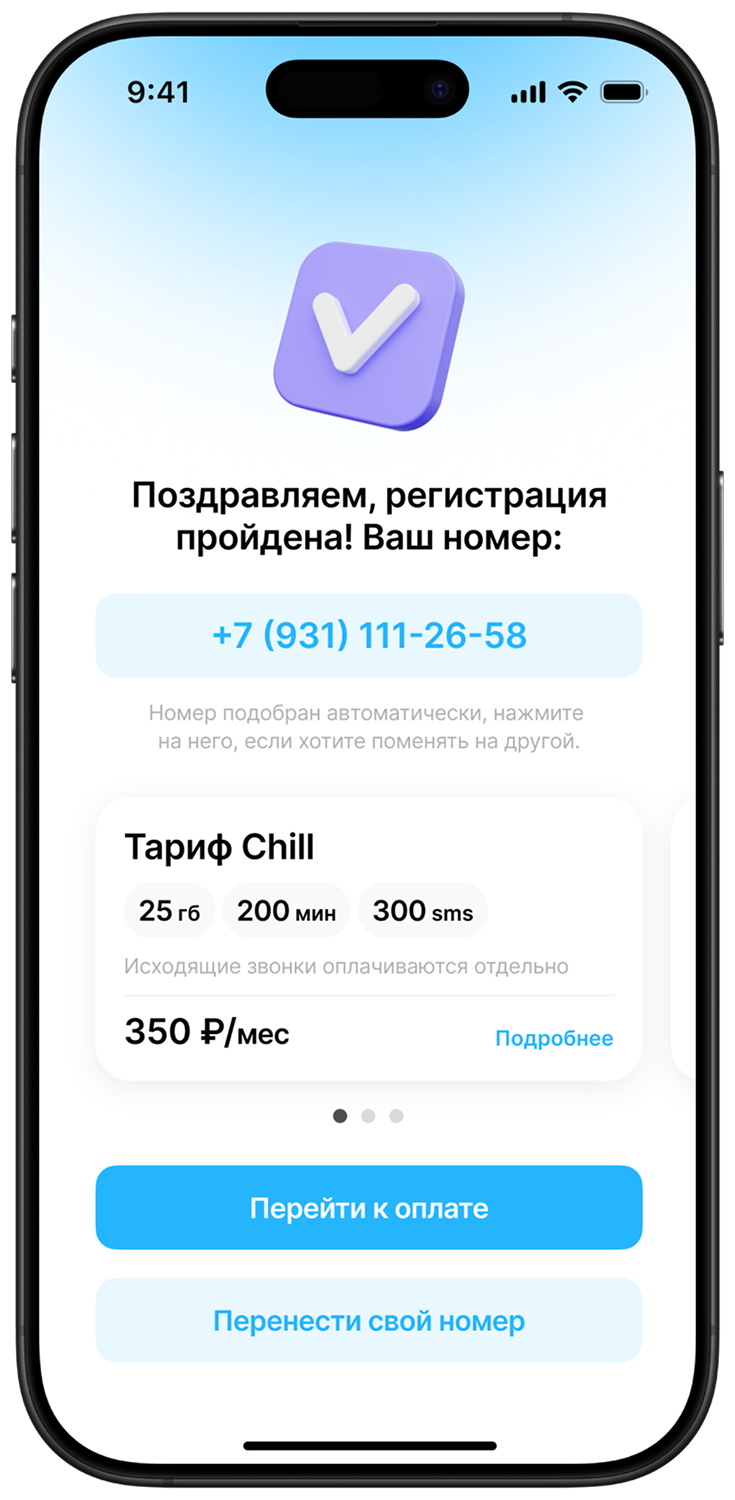
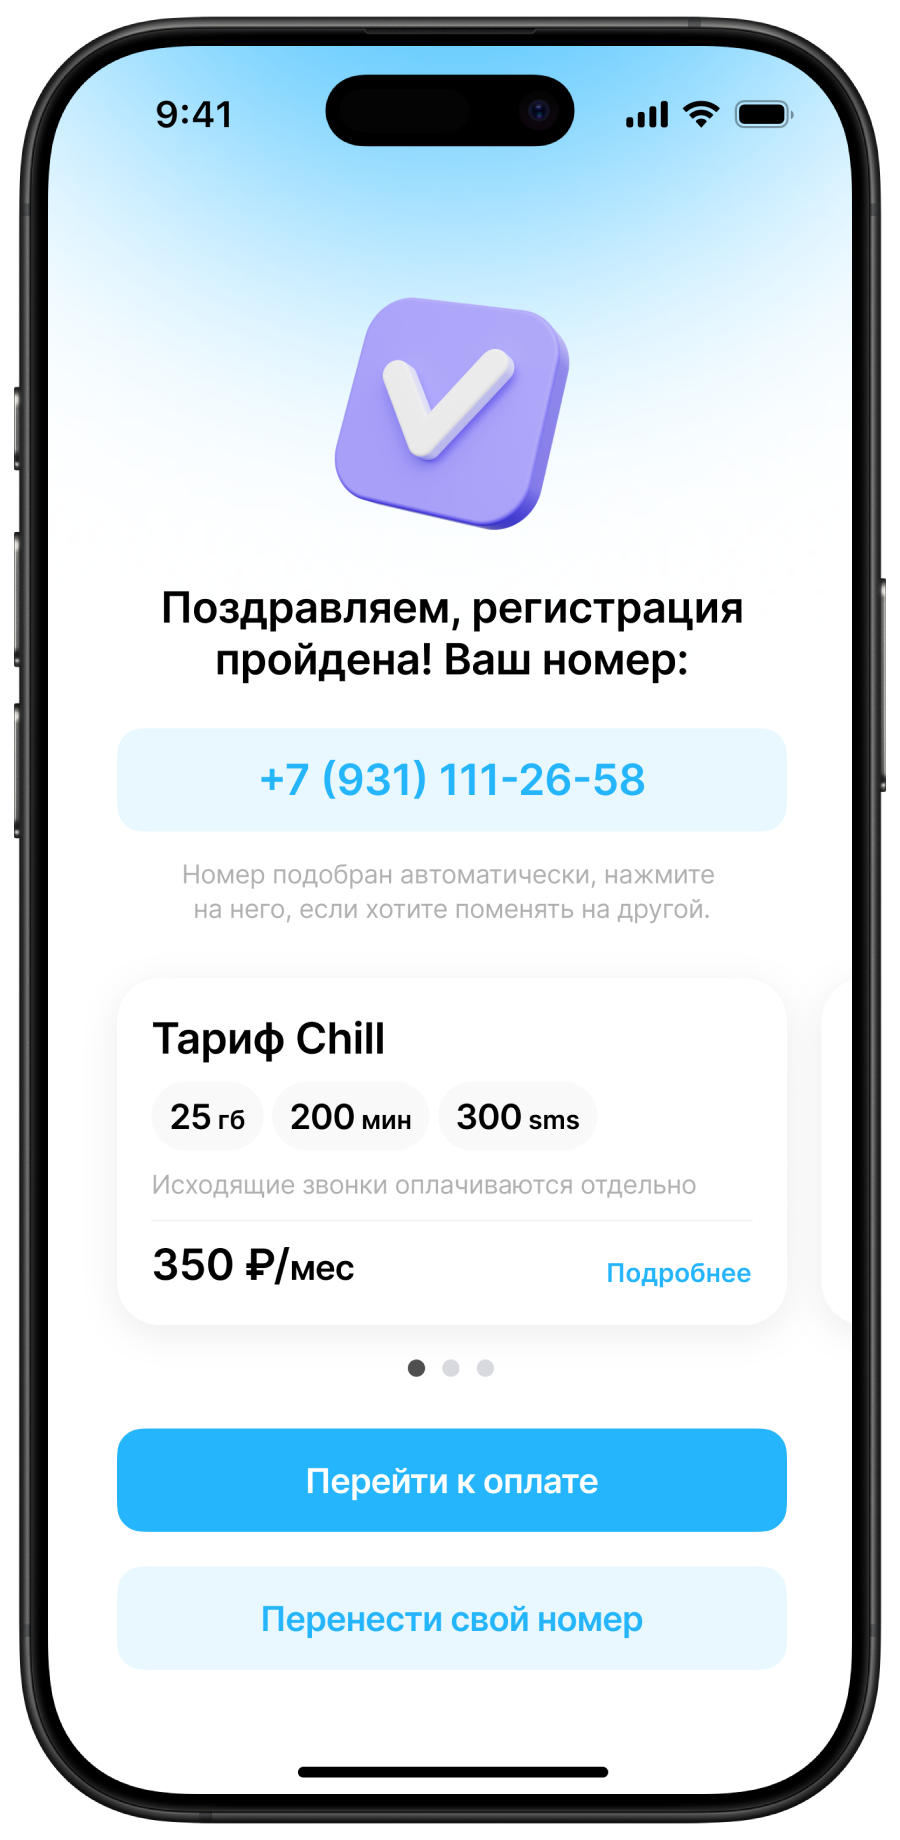
Update MCN case image frames

diff --git a/src/components/case-study-page.tsx b/src/components/case-study-page.tsx
@@ -7,22 +7,22 @@ import { useEffect, useRef, useState } from "react";
 
 const assets = {
   heart: "/figma/heart.svg",
-  phone1: "/figma/Main/phone%201.png?v=20260621",
-  phone2: "/figma/Main/phone%202.png?v=20260621",
-  phone3: "/figma/Main/phone%203.png?v=20260621",
+  phone1: "/figma/Main/phone%201.png?v=20260621b",
+  phone2: "/figma/Main/phone%202.png?v=20260621b",
+  phone3: "/figma/Main/phone%203.png?v=20260621b",
   arrowForward: "/figma/Main/arrow_forward.svg",
-  chartSmall: "/figma/case-chart-small.png",
-  chartBig: "/figma/case-chart-big.png",
-  discoveryActivation: "/figma/case-discovery-activation.png",
-  discoveryCost: "/figma/case-discovery-cost.png",
-  discoveryFeedback1: "/figma/case-discovery-feedback-1.png",
-  discoveryFeedback2: "/figma/case-discovery-feedback-2.png",
-  competitorWhatsapp: "/figma/case-competitor-whatsapp.png",
-  competitorOpenphone: "/figma/case-competitor-openphone.png",
-  userflow: "/figma/case-userflow.png",
-  solutionSuccess: "/figma/case-solution-success.png?v=20260621",
-  solutionCost: "/figma/case-solution-cost.png?v=20260621",
-  solutionError: "/figma/case-solution-error.png?v=20260621"
+  chartSmall: "/figma/case-chart-small.png?v=20260621b",
+  chartBig: "/figma/case-chart-big.png?v=20260621b",
+  discoveryActivation: "/figma/case-discovery-activation.png?v=20260621b",
+  discoveryCost: "/figma/case-discovery-cost.png?v=20260621b",
+  discoveryFeedback1: "/figma/case-discovery-feedback-1.png?v=20260621b",
+  discoveryFeedback2: "/figma/case-discovery-feedback-2.png?v=20260621b",
+  competitorWhatsapp: "/figma/case-competitor-whatsapp.png?v=20260621b",
+  competitorOpenphone: "/figma/case-competitor-openphone.png?v=20260621b",
+  userflow: "/figma/case-userflow.png?v=20260621b",
+  solutionSuccess: "/figma/case-solution-success.png?v=20260621b",
+  solutionCost: "/figma/case-solution-cost.png?v=20260621b",
+  solutionError: "/figma/case-solution-error.png?v=20260621b"
 };
 
 const workStages = [
@@ -52,8 +52,7 @@ export function CaseStudyPage() {
     startOffsetX: 0,
     startOffsetY: 0,
   });
-  const userflowBase = { width: 1000, height: 412 };
-  const userflowDisplay = { width: 1000, height: 412 };
+  const userflowBase = { width: 1000, height: 413 };
   const container = {
     hidden: { opacity: 0 },
     show: {
@@ -394,13 +393,12 @@ export function CaseStudyPage() {
               настройки SIM и роуминга.
             </p>
           </div>
-          <div className="relative left-1/2 w-screen -translate-x-1/2 bg-[#1c1c1c] py-8">
-            <div className="mx-auto flex w-full max-w-[845px] items-center justify-center gap-4 px-4 sm:gap-6 sm:px-0">
+          <div className="relative left-1/2 flex w-[calc(100vw-32px)] max-w-[1100px] -translate-x-1/2 items-center justify-center gap-4 rounded-[12px] bg-[#1c1c1c] px-4 py-8 sm:gap-6 sm:px-[49px]">
               <Image
                 alt="Экран регистрации MCN Softphone"
                 src={assets.phone1}
-                width={735}
-                height={1500}
+                width={900}
+                height={1840}
                 sizes="(max-width: 640px) 27vw, 236px"
                 className="h-auto w-[27%] max-w-[236px] sm:w-[236px]"
                 priority
@@ -408,8 +406,8 @@ export function CaseStudyPage() {
               <Image
                 alt="Экран тарифа MCN Softphone"
                 src={assets.phone2}
-                width={732}
-                height={1500}
+                width={900}
+                height={1840}
                 sizes="(max-width: 640px) 34vw, 280px"
                 className="h-auto w-[34%] max-w-[280px] sm:w-[280px]"
                 priority
@@ -417,13 +415,12 @@ export function CaseStudyPage() {
               <Image
                 alt="Экран звонка MCN Softphone"
                 src={assets.phone3}
-                width={735}
-                height={1500}
+                width={900}
+                height={1840}
                 sizes="(max-width: 640px) 27vw, 236px"
                 className="h-auto w-[27%] max-w-[236px] sm:w-[236px]"
                 priority
               />
-            </div>
           </div>
         </motion.section>
 
@@ -456,16 +453,21 @@ export function CaseStudyPage() {
                 {` — только 1/3 пользователей доходит до звонка, потому что большинство не понимает, когда номер уже активен`}
               </li>
             </ul>
-            <div className="mx-auto w-full max-w-[323px]">
-              <Image
-                alt=""
-                src={assets.chartSmall}
-                width={323}
-                height={64}
-                sizes="(max-width: 640px) calc(100vw - 32px), 323px"
-                className="h-auto w-full object-contain"
-                loading="lazy"
-              />
+            <div className="flex w-full flex-col items-center justify-center gap-3 rounded-[12px] bg-[#1c1c1c] pb-6 pt-8">
+              <div className="w-full max-w-[323px] px-4 sm:px-0">
+                <Image
+                  alt=""
+                  src={assets.chartSmall}
+                  width={726}
+                  height={144}
+                  sizes="(max-width: 640px) calc(100vw - 64px), 323px"
+                  className="h-auto w-full object-contain"
+                  loading="lazy"
+                />
+              </div>
+              <p className="text-center text-[14px] leading-[160%] text-[#afafaf]">
+                CR в 1-й звонок, 2023 г.
+              </p>
             </div>
             <ul className="list-disc space-y-4 pl-6 text-[18px] leading-[160%]">
               <li>
@@ -473,16 +475,21 @@ export function CaseStudyPage() {
                 {` — люди скачивали приложение, пробовали разобраться, но из 2.1К новых пользователей возвращалась лишь половина. По данным аналитики retention падает до 15% к четвёртой неделе`}
               </li>
             </ul>
-            <div className="mx-auto w-full max-w-[527px]">
-              <Image
-                alt=""
-                src={assets.chartBig}
-                width={527}
-                height={300}
-                sizes="(max-width: 640px) calc(100vw - 32px), 527px"
-                className="h-auto w-full object-contain"
-                loading="lazy"
-              />
+            <div className="flex w-full flex-col items-center justify-center gap-3 rounded-[12px] bg-[#1c1c1c] pb-6 pt-8">
+              <div className="w-full max-w-[527px] px-4 sm:px-0">
+                <Image
+                  alt=""
+                  src={assets.chartBig}
+                  width={1222}
+                  height={696}
+                  sizes="(max-width: 640px) calc(100vw - 64px), 527px"
+                  className="h-auto w-full object-contain"
+                  loading="lazy"
+                />
+              </div>
+              <p className="text-center text-[14px] leading-[160%] text-[#afafaf]">
+                Retention MCN Softphone, 2023 г.
+              </p>
             </div>
             <ul className="list-disc space-y-4 pl-6 text-[18px] leading-[160%]">
               <li>
@@ -567,16 +574,21 @@ export function CaseStudyPage() {
               </p>
             </div>
 
-            <div className="w-full">
-              <Image
-                alt=""
-                src={assets.discoveryActivation}
-                width={800}
-                height={757}
-                sizes="(max-width: 640px) calc(100vw - 32px), 1000px"
-                className="h-auto w-full object-contain"
-                loading="lazy"
-              />
+            <div className="relative left-1/2 flex w-[calc(100vw-32px)] max-w-[1100px] -translate-x-1/2 flex-col items-center justify-center gap-6 rounded-[12px] bg-[#1c1c1c] pb-6 pt-8">
+              <div className="w-full max-w-[800px] px-4 sm:px-0">
+                <Image
+                  alt=""
+                  src={assets.discoveryActivation}
+                  width={3512}
+                  height={3324}
+                  sizes="(max-width: 640px) calc(100vw - 64px), 800px"
+                  className="h-auto w-full object-contain"
+                  loading="lazy"
+                />
+              </div>
+              <p className="px-4 text-center text-[14px] leading-[160%] text-[#afafaf] sm:px-0">
+                Анализ текущего userflow (регистрация · покупка номера · звонок)
+              </p>
             </div>
 
             <div className="flex flex-col gap-2 text-[18px] leading-[160%]">
@@ -591,13 +603,13 @@ export function CaseStudyPage() {
               </p>
             </div>
 
-            <div className="-mx-4 overflow-hidden rounded-[12px] bg-[#1c1c1c] py-6 sm:mx-0">
+            <div className="-mx-4 overflow-hidden rounded-[12px] bg-[#1c1c1c] py-8 sm:mx-0">
               <div className="mx-auto w-full max-w-[427px] px-4 sm:px-0">
                 <Image
                   alt=""
                   src={assets.discoveryCost}
-                  width={427}
-                  height={400}
+                  width={1070}
+                  height={1002}
                   sizes="(max-width: 640px) calc(100vw - 32px), 427px"
                   className="h-auto w-full object-contain"
                   loading="lazy"
@@ -617,13 +629,13 @@ export function CaseStudyPage() {
               </p>
             </div>
 
-            <div className="-mx-4 overflow-hidden rounded-[12px] bg-[#1c1c1c] py-6 sm:mx-0">
+            <div className="-mx-4 overflow-hidden rounded-[12px] bg-[#1c1c1c] py-8 sm:mx-0">
               <div className="mx-auto flex w-full max-w-[427px] flex-col gap-4 px-4 sm:px-0">
                 <Image
                   alt=""
                   src={assets.discoveryFeedback1}
-                  width={427}
-                  height={136}
+                  width={1044}
+                  height={332}
                   sizes="(max-width: 640px) calc(100vw - 32px), 427px"
                   className="h-auto w-full object-contain"
                   loading="lazy"
@@ -631,8 +643,8 @@ export function CaseStudyPage() {
                 <Image
                   alt=""
                   src={assets.discoveryFeedback2}
-                  width={427}
-                  height={103}
+                  width={2116}
+                  height={512}
                   sizes="(max-width: 640px) calc(100vw - 32px), 427px"
                   className="h-auto w-full object-contain"
                   loading="lazy"
@@ -655,20 +667,20 @@ export function CaseStudyPage() {
               </p>
             </div>
 
-            <div className="w-full">
-              <div className="mx-auto w-full max-w-[800px]">
+            <div className="relative left-1/2 flex w-[calc(100vw-32px)] max-w-[1100px] -translate-x-1/2 flex-col items-center justify-center gap-3 rounded-[12px] bg-[#1c1c1c] py-8">
+              <div className="w-full max-w-[800px] px-4 sm:px-0">
                 <Image
                   alt=""
                   src={assets.competitorWhatsapp}
-                  width={600}
-                  height={300}
-                  sizes="(max-width: 640px) calc(100vw - 32px), 800px"
+                  width={3104}
+                  height={1550}
+                  sizes="(max-width: 640px) calc(100vw - 64px), 800px"
                   className="h-auto w-full object-contain"
                   loading="lazy"
                 />
               </div>
-              <p className="mt-4 text-center text-[14px] leading-[1.4] text-[#afafaf]">
-                WhatsApp (регистрация · выбор контакта · звонок)
+              <p className="px-4 text-center text-[14px] leading-[160%] text-[#afafaf] sm:px-0">
+                WhatsApp  (регистрация · выбор контакта · звонок)
               </p>
             </div>
 
@@ -678,20 +690,20 @@ export function CaseStudyPage() {
               пользователю необходима понятная и непрерывная обратная связь о его прогрессе и статусе.
             </p>
 
-            <div className="w-full">
-              <div className="mx-auto w-full max-w-[800px]">
+            <div className="relative left-1/2 flex w-[calc(100vw-32px)] max-w-[1100px] -translate-x-1/2 flex-col items-center justify-center gap-3 rounded-[12px] bg-[#1c1c1c] py-8">
+              <div className="w-full max-w-[1000px] px-4 sm:px-0">
                 <Image
                   alt=""
                   src={assets.competitorOpenphone}
-                  width={754}
-                  height={300}
-                  sizes="(max-width: 640px) calc(100vw - 32px), 800px"
+                  width={3901}
+                  height={1552}
+                  sizes="(max-width: 640px) calc(100vw - 64px), 1000px"
                   className="h-auto w-full object-contain"
                   loading="lazy"
                 />
               </div>
-              <p className="mt-4 text-center text-[14px] leading-[1.4] text-[#afafaf]">
-                Open Phone (выбор номера · регистрация · покупка номера · звонок)
+              <p className="px-4 text-center text-[14px] leading-[160%] text-[#afafaf] sm:px-0">
+                Open Phone  (выбор номера · регистрация · покупка номера · звонок)
               </p>
             </div>
 
@@ -759,8 +771,8 @@ export function CaseStudyPage() {
               </p>
             </div>
 
-            <div className="relative left-1/2 w-screen -translate-x-1/2 bg-[#1c1c1c] py-8">
-              <div className="mx-auto w-full max-w-[1000px] px-4 sm:px-0">
+            <div className="relative left-1/2 flex w-[calc(100vw-32px)] max-w-[1100px] -translate-x-1/2 flex-col items-center justify-center gap-6 rounded-[12px] bg-[#1c1c1c] pb-6 pt-8">
+              <div className="w-full max-w-[1000px] px-4 sm:px-0">
                 <button
                   type="button"
                   aria-label="Open userflow"
@@ -770,15 +782,15 @@ export function CaseStudyPage() {
                   <Image
                     alt=""
                     src={assets.userflow}
-                    width={userflowDisplay.width}
-                    height={userflowDisplay.height}
-                    sizes="(max-width: 640px) calc(100vw - 32px), 1000px"
+                    width={4096}
+                    height={1690}
+                    sizes="(max-width: 640px) calc(100vw - 64px), 1000px"
                     className="h-auto w-full object-contain"
                     loading="lazy"
                   />
                 </button>
               </div>
-              <p className="mt-4 px-4 text-center text-[14px] leading-[1.4] text-[#9e9e9e] sm:px-0">
+              <p className="px-4 text-center text-[14px] leading-[160%] text-[#9e9e9e] sm:px-0">
                 Новый userflow 1-го звонка (регистрация · покупка номера · звонок)
               </p>
             </div>
@@ -825,14 +837,14 @@ export function CaseStudyPage() {
             </p>
           </div>
 
-          <div className="relative left-1/2 w-screen -translate-x-1/2 bg-[#1c1c1c] py-6">
-            <div className="mx-auto w-full max-w-[845px] px-4 sm:px-0">
+          <div className="relative left-1/2 flex w-[calc(100vw-32px)] max-w-[1100px] -translate-x-1/2 items-center justify-center rounded-[12px] bg-[#1c1c1c] py-8">
+            <div className="w-full max-w-[845px] px-4 sm:px-0">
               <Image
                 alt=""
                 src={assets.solutionSuccess}
-                width={2400}
-                height={1347}
-                sizes="(max-width: 640px) calc(100vw - 32px), 845px"
+                width={3148}
+                height={1999}
+                sizes="(max-width: 640px) calc(100vw - 64px), 845px"
                 className="h-auto w-full object-contain"
                 loading="lazy"
               />
@@ -851,14 +863,14 @@ export function CaseStudyPage() {
             </p>
           </div>
 
-          <div className="relative left-1/2 w-screen -translate-x-1/2 bg-[#1c1c1c] py-6">
-            <div className="mx-auto w-full max-w-[1000px] px-4 sm:px-0">
+          <div className="relative left-1/2 flex w-[calc(100vw-32px)] max-w-[1100px] -translate-x-1/2 items-center justify-center rounded-[12px] bg-[#1c1c1c] py-8">
+            <div className="w-full max-w-[1000px] px-4 sm:px-0">
               <Image
                 alt=""
                 src={assets.solutionCost}
-                width={1600}
-                height={800}
-                sizes="(max-width: 640px) calc(100vw - 32px), 1000px"
+                width={3780}
+                height={1999}
+                sizes="(max-width: 640px) calc(100vw - 64px), 1000px"
                 className="h-auto w-full object-contain"
                 loading="lazy"
               />
@@ -879,14 +891,14 @@ export function CaseStudyPage() {
             </p>
           </div>
 
-          <div className="relative left-1/2 w-screen -translate-x-1/2 bg-[#1c1c1c] py-6">
-            <div className="mx-auto w-full max-w-[1000px] px-4 sm:px-0">
+          <div className="relative left-1/2 flex w-[calc(100vw-32px)] max-w-[1100px] -translate-x-1/2 items-center justify-center rounded-[12px] bg-[#1c1c1c] py-8">
+            <div className="w-full max-w-[1000px] px-4 sm:px-0">
               <Image
                 alt=""
                 src={assets.solutionError}
-                width={1600}
-                height={858}
-                sizes="(max-width: 640px) calc(100vw - 32px), 1000px"
+                width={3780}
+                height={2020}
+                sizes="(max-width: 640px) calc(100vw - 64px), 1000px"
                 className="h-auto w-full object-contain"
                 loading="lazy"
               />
